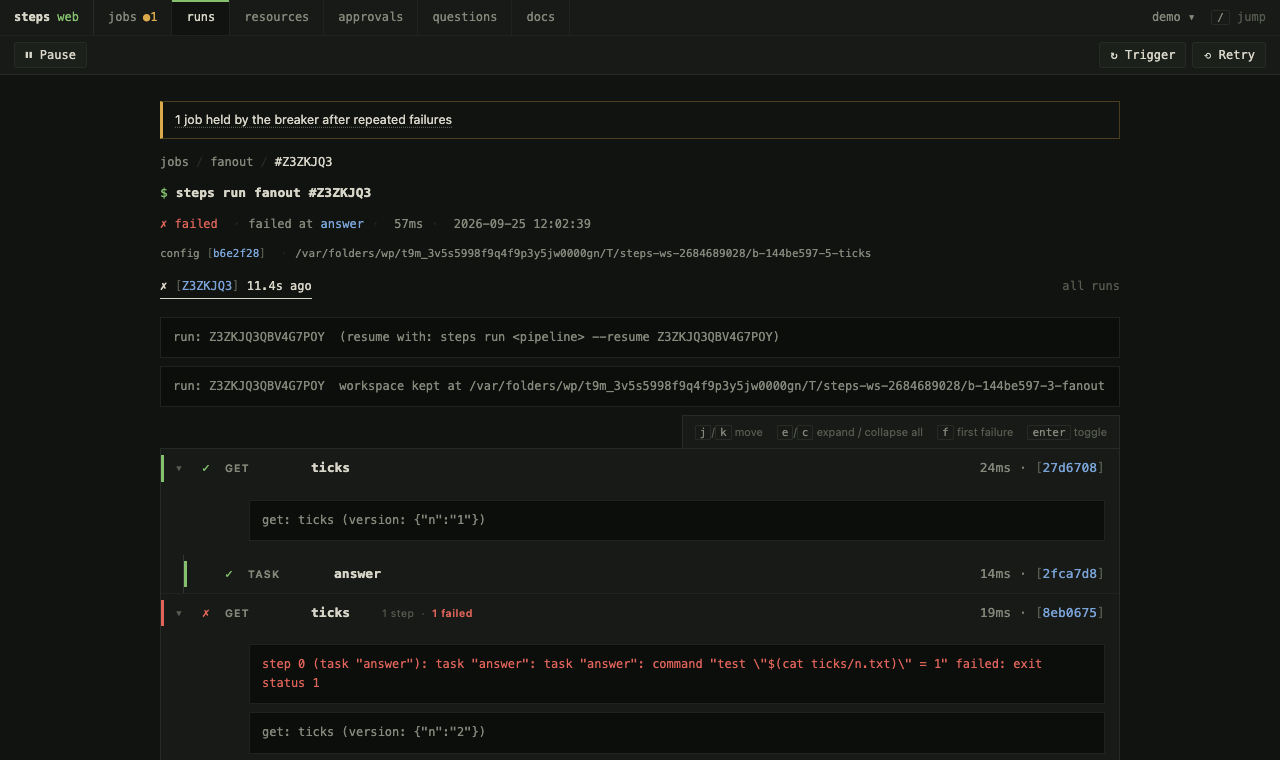
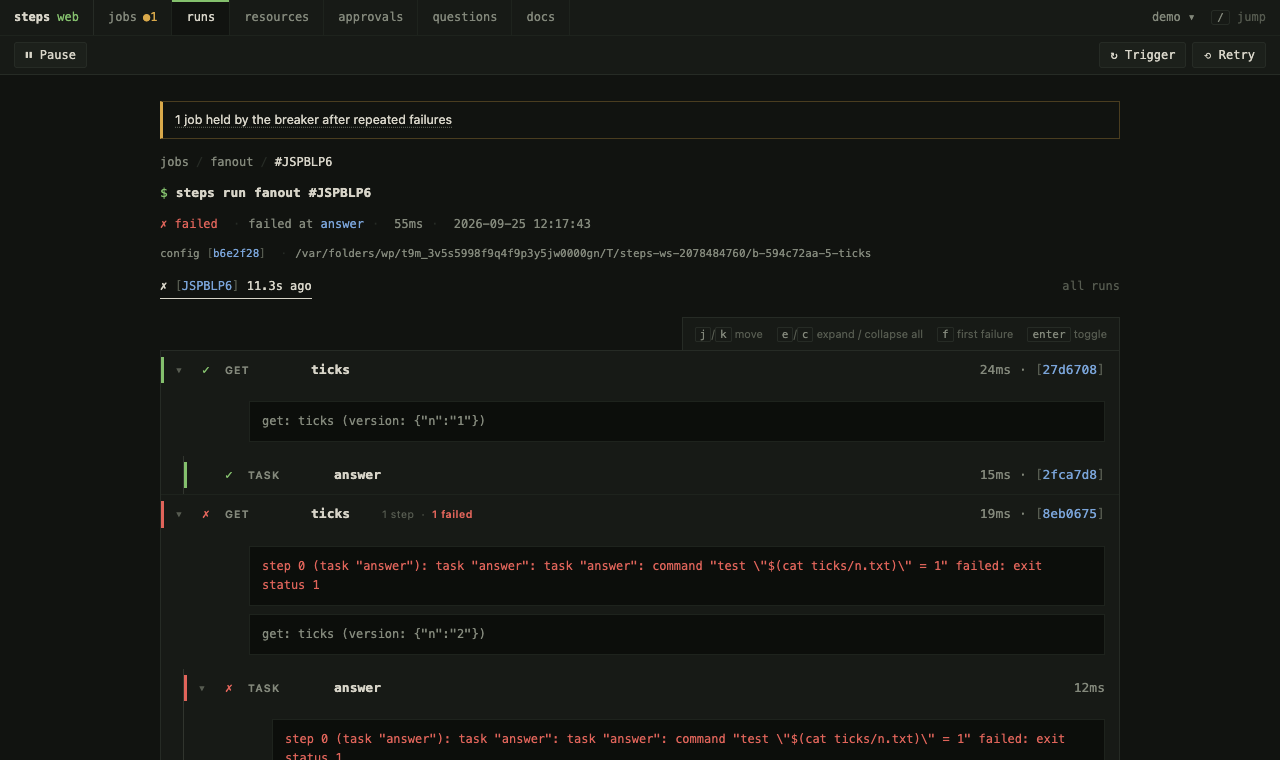
pipeline: how to resume is said to the terminal, not the transcript
"resume with: steps run ..." and "workspace kept at ..." are directions for the shell that ran the job. As run-level notes they were recorded and drawn as panels above the web transcript, where Retry covers the first and there is no filesystem for the second.

diff --git a/internal/pipeline/resume.go b/internal/pipeline/resume.go
@@ -13,6 +13,7 @@ import (
 	"sync/atomic"
 
 	"github.com/jtarchie/steps/internal/config"
+	"github.com/jtarchie/steps/internal/events"
 	"github.com/jtarchie/steps/internal/merkle"
 	"github.com/jtarchie/steps/internal/store"
 	"github.com/jtarchie/steps/internal/workspace"
@@ -155,11 +156,17 @@ func ResumeJobName(ctx context.Context, st runLookup, runID string) (string, err
 // Both halves matter. Without the id there is nothing to resume; without the
 // directory an operator cannot see the work that survived — and the files a
 // step had just written when it failed are the most useful thing to look at.
+//
+// To the terminal and not the run's record: both are directions for the shell
+// that ran the job, and the web page — which draws the record — has Retry for
+// the first and no filesystem for the second.
 func reportResumable(ctx context.Context, runID string, bw workspace.BuildWorkspace) {
-	notef(ctx, "run: %s  (resume with: steps run <pipeline> --resume %s)", runID, runID)
+	out := events.Stdout(ctx)
+
+	_, _ = fmt.Fprintf(out, "run: %s  (resume with: steps run <pipeline> --resume %s)\n", runID, runID)
 
 	if rooted, ok := bw.(workspace.RootedBuild); ok {
-		notef(ctx, "run: %s  workspace kept at %s", runID, rooted.Root())
+		_, _ = fmt.Fprintf(out, "run: %s  workspace kept at %s\n", runID, rooted.Root())
 	}
 }
 

diff --git a/e2e/notes_test.go b/e2e/notes_test.go
@@ -4,6 +4,7 @@ import (
 	"strings"
 	"testing"
 
+	"github.com/jtarchie/steps/internal/cli"
 	"github.com/jtarchie/steps/internal/events"
 	"github.com/jtarchie/steps/internal/store"
 )
@@ -136,4 +137,34 @@ func latestRunEvents(t *testing.T, path string) []store.RunEventRow {
 	}
 
 	return rows
+}
+
+// TestHowToResumeIsSaidToTheTerminalOnly: "resume with: steps run …" and "workspace kept at …" are directions for the shell that ran the job; the web page has Retry for the first and no filesystem for the second, and drew both as panels above the transcript.
+func TestHowToResumeIsSaidToTheTerminalOnly(t *testing.T) {
+	path := writePipeline(t, t.TempDir(), `
+jobs:
+- name: build
+  plan:
+  - task: fails
+    run: "exit 1"
+`)
+
+	out := captureStdout(t, func() {
+		err := cli.Run([]string{"run", path, "--job", "build"})
+		if err == nil {
+			t.Fatal("expected the run to fail")
+		}
+	})
+
+	for _, said := range []string{"resume with: steps run", "workspace kept at"} {
+		if !strings.Contains(out, said) {
+			t.Errorf("the terminal was not told %q:\n%s", said, out)
+		}
+
+		for _, row := range latestRunEvents(t, path) {
+			if strings.Contains(row.Text, said) {
+				t.Errorf("the run's record, which the web page draws, holds %q", said)
+			}
+		}
+	}
 }
